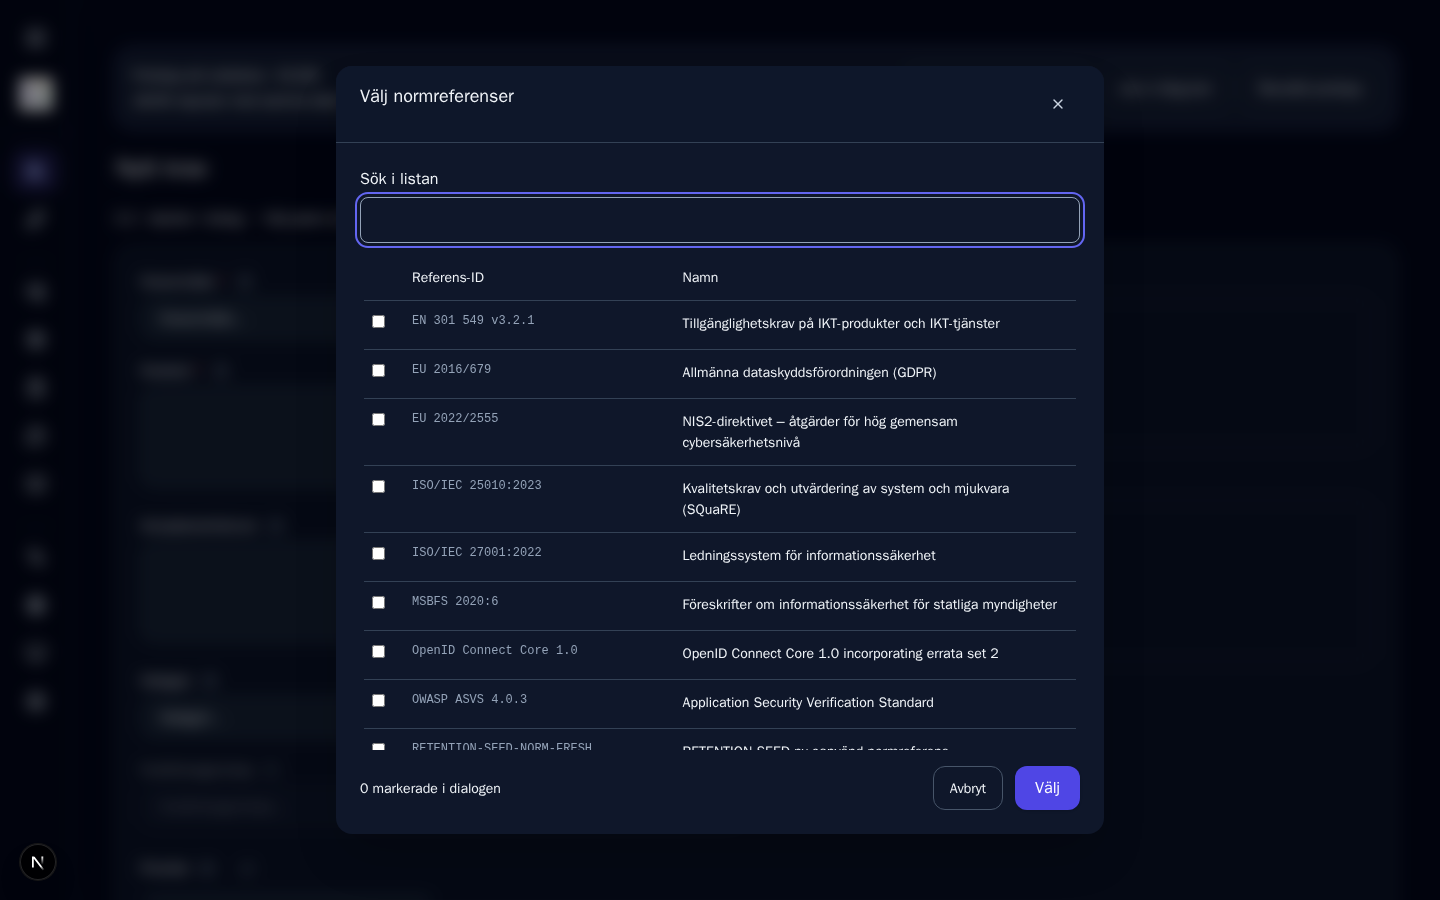
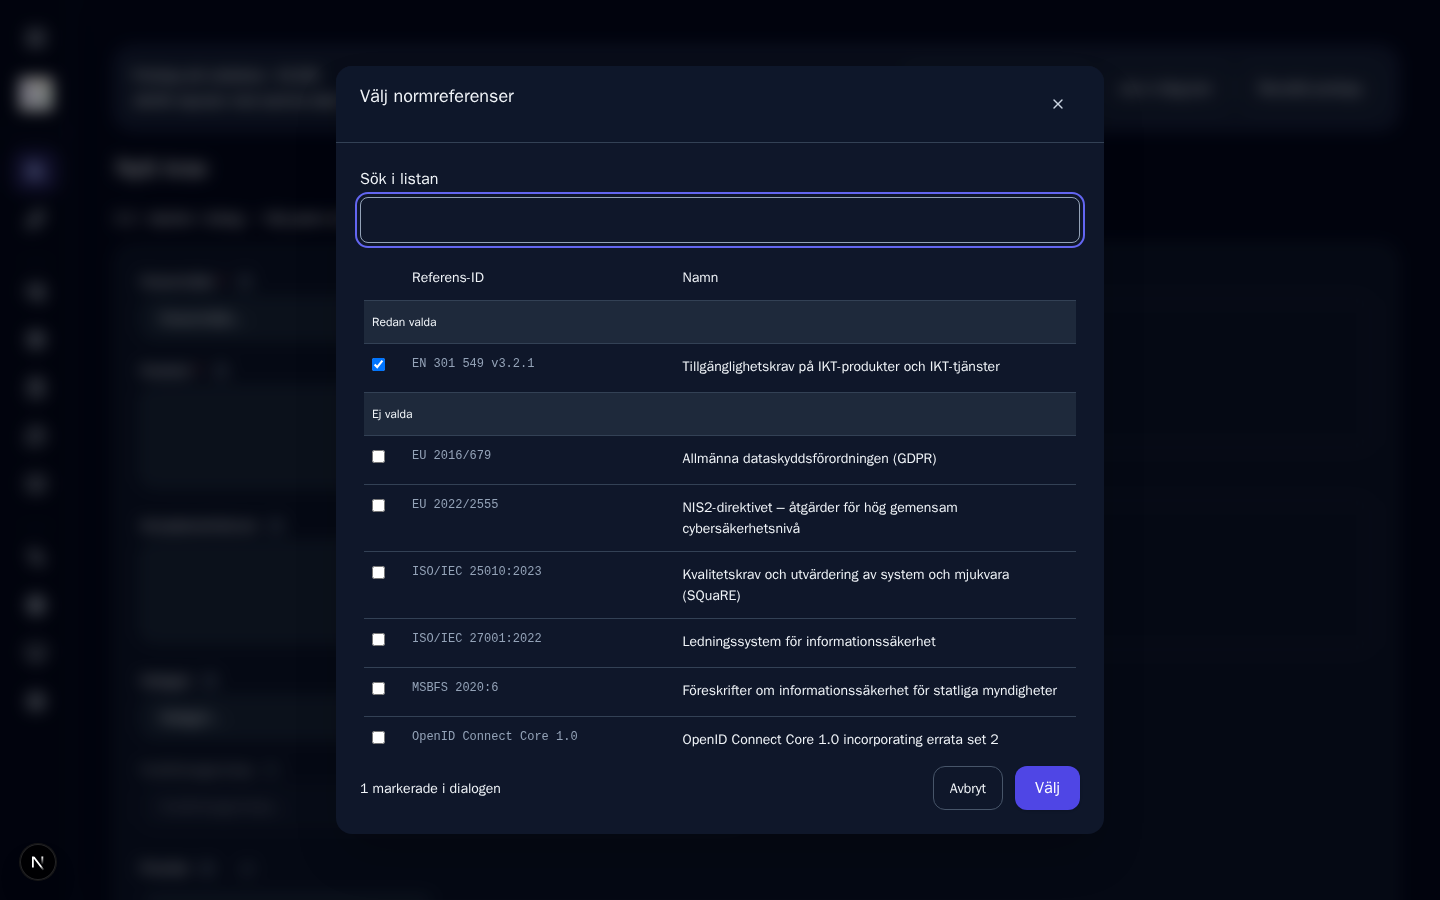
prototype: freeze E.2 selection groups for each dialog visit

diff --git a/components/PrototypeRequirementAssociations.tsx b/components/PrototypeRequirementAssociations.tsx
@@ -41,6 +41,7 @@ export default function PrototypeRequirementAssociations({
   const isPackage = kind === 'packages'
   const [open, setOpen] = useState(false)
   const [draft, setDraft] = useState<number[]>([])
+  const [selectedOnOpen, setSelectedOnOpen] = useState<number[]>([])
   const [query, setQuery] = useState('')
   const [help, setHelp] = useState(false)
   const triggerRef = useRef<HTMLButtonElement>(null)
@@ -59,11 +60,29 @@ export default function PrototypeRequirementAssociations({
       }))
   const visible = items.filter(
     item =>
-      (!item.isArchived || ids.includes(item.id)) &&
+      (!item.isArchived ||
+        ids.includes(item.id) ||
+        (table && selectedOnOpen.includes(item.id))) &&
       `${item.name} ${item.reference} ${item.purpose}`
         .toLocaleLowerCase()
         .includes(modal ? query.toLocaleLowerCase() : ''),
   )
+  const groups = [
+    ...(selectedOnOpen.length > 0
+      ? [
+          {
+            key: 'previous',
+            label: t('selectedOnOpen'),
+            items: visible.filter(item => selectedOnOpen.includes(item.id)),
+          },
+        ]
+      : []),
+    {
+      key: 'other',
+      label: t('otherOptions'),
+      items: visible.filter(item => !selectedOnOpen.includes(item.id)),
+    },
+  ]
   const title = tr(isPackage ? 'requirementPackage' : 'normReferences')
   const close = () => setOpen(false)
   const toggle = (id: number, checked: boolean) => {
@@ -121,41 +140,64 @@ export default function PrototypeRequirementAssociations({
               </th>
             </tr>
           </thead>
-          <tbody>
-            {visible.map(item => (
-              <tr key={item.id}>
-                <td>{checkbox(item)}</td>
-                <td>
-                  <label
-                    className={
-                      isPackage
-                        ? undefined
-                        : 'font-mono text-xs text-secondary-500 dark:text-secondary-400'
-                    }
-                    htmlFor={`prototype-${kind}-${item.id}-checkbox`}
-                  >
-                    {isPackage ? item.name : item.reference}
-                    {isPackage && item.isArchived ? ` (${t('archived')})` : ''}
-                  </label>
-                </td>
-                <td>
-                  {isPackage ? (
-                    <p
-                      className="prototype-1349-table-purpose"
-                      id={`prototype-${kind}-modal-${item.id}-purpose`}
-                    >
-                      {item.purpose || t('missingPurpose')}
-                    </p>
-                  ) : (
-                    <label htmlFor={`prototype-${kind}-${item.id}-checkbox`}>
-                      {item.name}
-                      {item.isArchived ? ` (${t('archived')})` : ''}
-                    </label>
-                  )}
+          {groups.map(group => (
+            <tbody
+              aria-labelledby={`prototype-${kind}-${group.key}-heading`}
+              key={group.key}
+              {...devMarker({
+                name: 'prototype selection group',
+                value: `${kind} ${group.key}`,
+              })}
+            >
+              <tr>
+                <td className="prototype-1349-group-heading" colSpan={3}>
+                  <h3 id={`prototype-${kind}-${group.key}-heading`}>
+                    {group.label}
+                  </h3>
                 </td>
               </tr>
-            ))}
-          </tbody>
+              {group.items.map(item => (
+                <tr key={item.id}>
+                  <td>{checkbox(item)}</td>
+                  <td>
+                    <label
+                      className={
+                        isPackage
+                          ? undefined
+                          : 'font-mono text-xs text-secondary-500 dark:text-secondary-400'
+                      }
+                      htmlFor={`prototype-${kind}-${item.id}-checkbox`}
+                    >
+                      {isPackage ? item.name : item.reference}
+                      {isPackage && item.isArchived
+                        ? ` (${t('archived')})`
+                        : ''}
+                    </label>
+                  </td>
+                  <td>
+                    {isPackage ? (
+                      <p
+                        className="prototype-1349-table-purpose"
+                        id={`prototype-${kind}-modal-${item.id}-purpose`}
+                      >
+                        {item.purpose || t('missingPurpose')}
+                      </p>
+                    ) : (
+                      <label htmlFor={`prototype-${kind}-${item.id}-checkbox`}>
+                        {item.name}
+                        {item.isArchived ? ` (${t('archived')})` : ''}
+                      </label>
+                    )}
+                  </td>
+                </tr>
+              ))}
+              {group.items.length === 0 && (
+                <tr>
+                  <td colSpan={3}>{t('noMatches')}</td>
+                </tr>
+              )}
+            </tbody>
+          ))}
         </table>
       ) : (
         visible.map(item => (
@@ -186,7 +228,7 @@ export default function PrototypeRequirementAssociations({
           </div>
         ))
       )}
-      {visible.length === 0 && <p>{t('noMatches')}</p>}
+      {!table && visible.length === 0 && <p>{t('noMatches')}</p>}
       {ids.length >= ARRAY_INPUT_MAX_ITEMS && (
         <p role="status">
           {tr('associationSelectionLimit', { limit: ARRAY_INPUT_MAX_ITEMS })}
@@ -227,13 +269,22 @@ export default function PrototypeRequirementAssociations({
             disabled={disabled}
             onClick={() => {
               setDraft([...selected])
+              setSelectedOnOpen([...selected])
               setQuery('')
               setOpen(true)
             }}
             ref={triggerRef}
             type="button"
           >
-            {t(isPackage ? 'addPackages' : 'addNorms')}
+            {t(
+              table
+                ? isPackage
+                  ? 'choosePackages'
+                  : 'selectNorm'
+                : isPackage
+                  ? 'addPackages'
+                  : 'addNorms',
+            )}
           </button>
           <p className="prototype-1349-selection-count" role="status">
             {t('selectedCount', { count: selected.length })}

diff --git a/app/[locale]/requirements/new/requirement-form.prototype.css b/app/[locale]/requirements/new/requirement-form.prototype.css
@@ -533,3 +533,12 @@ body:has([aria-modal="true"]) .prototype-1349-review {
   line-height: 1.5;
   white-space: pre-wrap;
 }
+
+.prototype-1349-picker-table .prototype-1349-group-heading {
+  font-size: 0.75rem;
+  font-weight: 600;
+  background: var(--color-secondary-100);
+}
+.dark .prototype-1349-picker-table .prototype-1349-group-heading {
+  background: var(--color-secondary-800);
+}

diff --git a/docs/prototypes/1349/GRANSKNING.md b/docs/prototypes/1349/GRANSKNING.md
@@ -105,6 +105,19 @@ med syfte och avgränsning i en tooltip.
 Kolumnrubrikerna ligger kvar överst när tabellens innehåll rullas.
 Vägledningen om paketens syfte visas under dialogtiteln, före sökfältet,
 och ligger också kvar när tabellen rullas.
+Knapparna i E.2 heter **Välj kravpaket** och **Välj normreferens**.
+Dialogen har två grupper: **Redan valda** och
+**Ej valda**. Grupperna bestäms när dialogen öppnas. En ny
+markering ligger kvar i den nedre gruppen. Ett avmarkerat tidigare val
+ligger kvar i den övre gruppen och kan markeras igen. Raderna flyttas inte
+när kryssrutorna ändras.
+
+Sökning filtrerar båda grupperna utan att ändra deras innehåll eller val.
+Grupperna rullas tillsammans under de fasta kolumnrubrikerna. Om inget
+var valt när dialogen öppnades visas bara den nedre gruppen.
+**Välj** tillämpar urvalet. Nästa öppning grupperar efter det nya urvalet.
+**Avbryt**, Escape och stängningsknappen kasserar ändringarna som tidigare.
+
 Den gamla länken med `?variant=E` öppnar E.1.
 
 1. Öppna båda dialogerna i E.2 och kontrollera kolumnerna.
@@ -117,7 +130,17 @@ Den gamla länken med `?variant=E` öppnar E.1.
    bakgrund så att raderna inte syns genom dem.
 8. Välj paket och normreferenser. Kontrollera märkenas text och hovra över
    dem i ungefär en sekund för att läsa respektive tooltip.
+9. Öppna dialogen med ett tidigare val. Avmarkera det och markera ett annat
+   objekt längre ned. Båda ska behålla sina platser tills dialogen stängs.
+10. Sök efter ett objekt i vardera gruppen. Rensa sökningen och kontrollera
+    att markeringarna finns kvar. Prova först Avbryt och sedan Välj.
+11. Öppna igen efter Välj. Det nya urvalet ska visas överst. Avmarkera allt,
+    tryck Välj och öppna igen; den övre gruppen ska nu vara dold.
 
+- [Kravpaket med fasta grupper](screenshots/E2-packages-groups.png)
+- [Normreferenser med fasta grupper](screenshots/E2-norms-groups.png)
+- [Grupper vid 320 pixlar i mörkt tema](screenshots/E2-packages-groups-320-dark.png)
+- [Kontroll av grupper och val](group-inspection.json)
 - [E.2:s paketdialog](screenshots/E2-packages-modal.png)
 - [E.2:s normreferensdialog](screenshots/E2-norms-modal.png)
 - [E.2:s paketdialog i mörkt tema](screenshots/E2-packages-dark.png)

diff --git a/docs/prototypes/1349/FINDINGS.md b/docs/prototypes/1349/FINDINGS.md
@@ -84,6 +84,17 @@ Screenshots in the [review guide](README.md) preserve two desktop scenarios
 for each alternative, plus the review panel with live state. The
 [Swedish guide](GRANSKNING.md) also links modal and selected-badge screenshots.
 
+## Confirmed E.2 grouping behavior
+
+Both dialogs group items by the applied selection at opening. Checking or
+unchecking an item leaves its group and row order unchanged. Search filters
+both groups. One scroll area keeps the column headings visible. The upper
+group is omitted when nothing was selected at opening. Select applies the
+draft; reopening rebuilds the groups. Cancel discards the draft.
+
+The user confirmed these decisions during the grilling discussion.
+See [group inspection](group-inspection.json) and the Swedish review guide.
+
 ## Limits
 
 This is not a complete accessibility audit or production regression suite.
